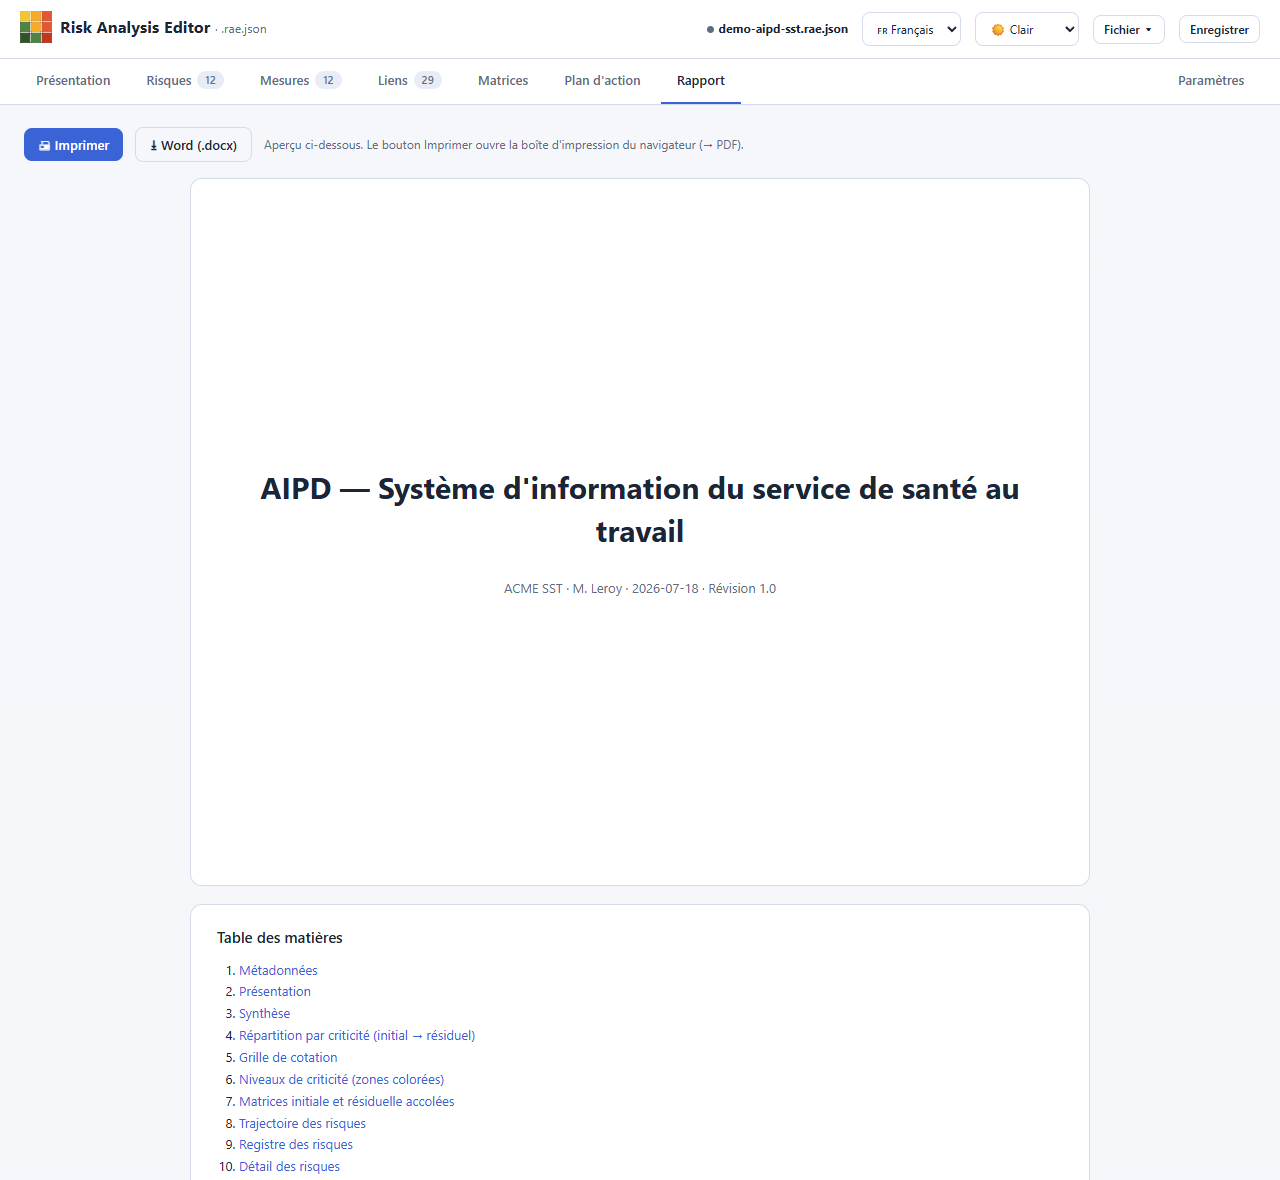
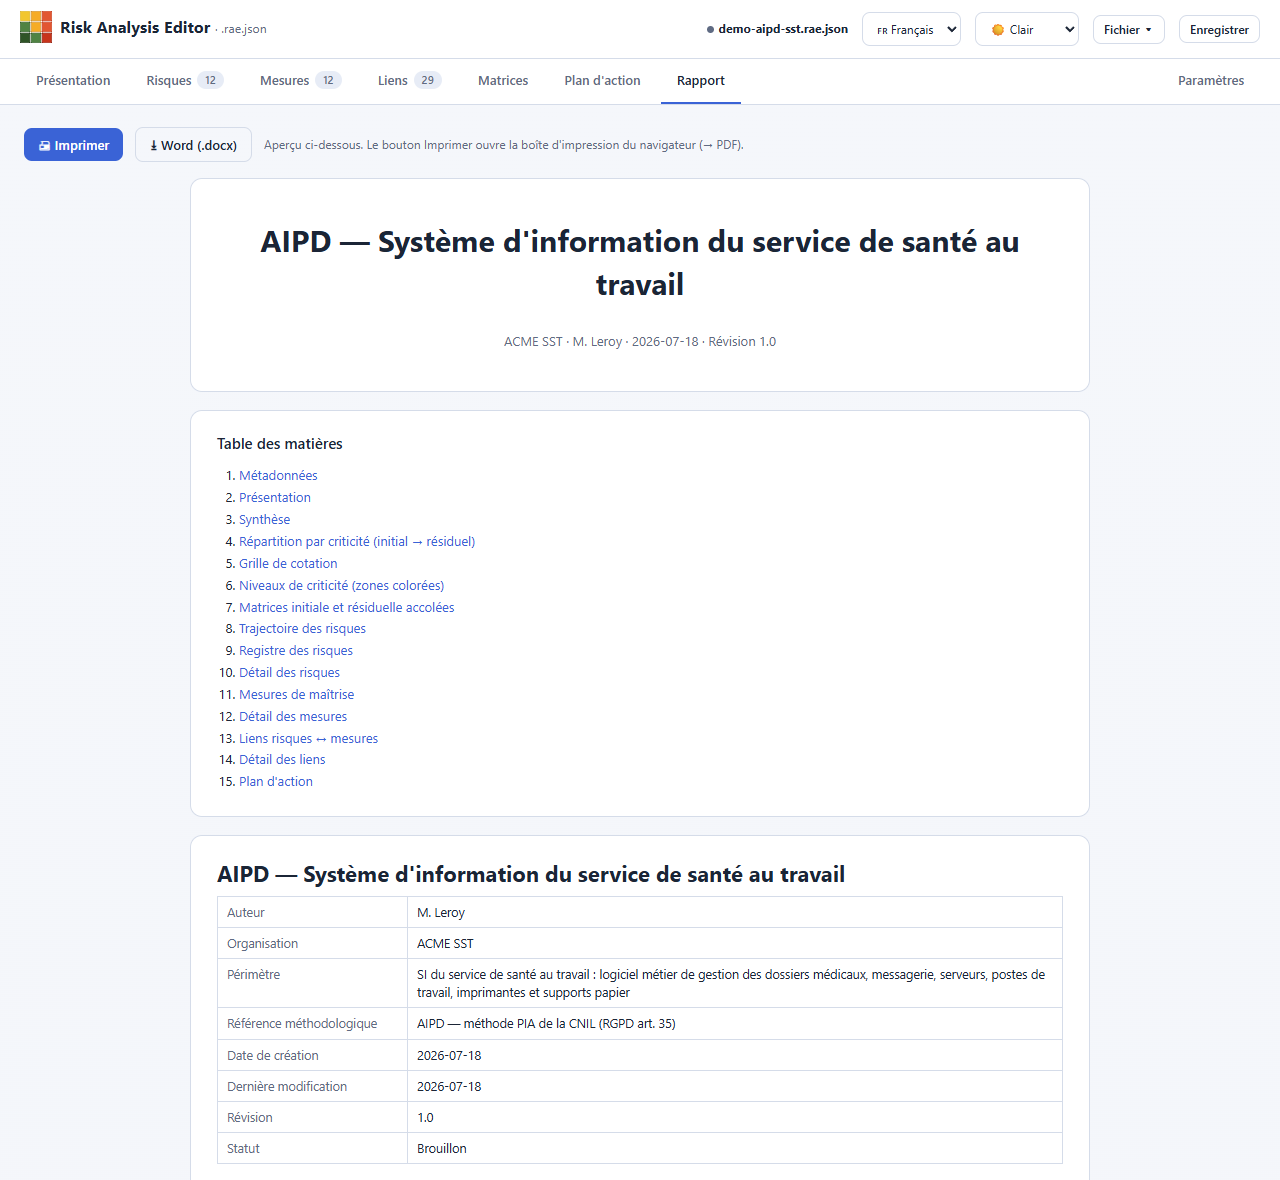
feat(rapport, matrices): édition au clic sur les pastilles + ajustements du rapport
- Matrices : cliquer une pastille ouvre la fiche du risque (toutes les vues :
  Initial, Résiduel, Trajectoire, y compris placement manuel). Le glisser-déposer
  n'est jamais confondu avec un clic (seuil de 3 px). Accessibilité : pastille
  role="button", Entrée/Espace ouvre l'édition (le déplacement reste sur Ctrl+flèches).
- Rapport : dans le bloc « Périmètre filtré », les comptes s'affichent en « n / N »
  (retenus / total) pour les risques et les mesures — à l'écran/PDF et à l'export Word.
- Rapport : retrait du min-height:60vh de la page de garde (.report .rp-cover), qui
  s'ajuste désormais à la hauteur de son contenu.
- Doc : guide (§9 « éditer au clic », §11 comptes « n / N ») et README (fr/en :
  pastilles cliquables) mis à jour ; capture guide-18-rapport.png régénérée (page de
  garde compacte).

diff --git a/app/risk-analysis-editor.html b/app/risk-analysis-editor.html
@@ -664,7 +664,7 @@
   .report .rp-item .rp-note{margin-top:4px;font-size:12px;color:var(--muted);white-space:pre-wrap}
 
   /* ---- Rapport personnalisable : page de garde, table des matières, en-tête/pied ---- */
-  .report .rp-cover{min-height:60vh;display:flex;flex-direction:column;align-items:center;justify-content:center;
+  .report .rp-cover{display:flex;flex-direction:column;align-items:center;justify-content:center;
     text-align:center;gap:12px;padding:40px 26px;background:var(--panel);border:1px solid var(--border);
     border-radius:12px;margin-bottom:18px;page-break-after:always}
   .report .rp-cover-logo{max-height:120px;max-width:60%;object-fit:contain;margin-bottom:10px}
@@ -3641,6 +3641,9 @@ function commitManualDrop(mc,r,which,px,py){
 /* Déplacement au clavier : Ctrl+flèches sur la pastille focalisée. Vaut dans toutes les
    dispositions, manuelle comprise, pour ne pas laisser une fonction réservée à la souris. */
 document.getElementById("view-matrices").addEventListener("keydown",e=>{
+  // Entrée/Espace sur une pastille focalisée : éditer le risque (équivalent clavier du clic).
+  const chipK=e.target.closest&&e.target.closest(".chip,.ov-chip");
+  if(chipK&&chipK.dataset.rid&&(e.key==="Enter"||e.key===" ")){e.preventDefault();openRiskModal(chipK.dataset.rid);return;}
   if(!e.ctrlKey||e.altKey||e.shiftKey)return;
   const d={ArrowRight:[0,1],ArrowLeft:[0,-1],ArrowUp:[1,0],ArrowDown:[-1,0]}[e.key];
   if(!d)return;
@@ -3723,6 +3726,7 @@ function attachManualDrag(chip,mc,r,which){
     const up=ev=>{
       finish();
       if(moved)commitManualDrop(mc,r,which,ev.clientX-m.left,ev.clientY-m.top);
+      else openRiskModal(r.id);   // clic sans glisser : éditer le risque
     };
     chip.addEventListener("pointermove",move);chip.addEventListener("pointerup",up);
     chip.addEventListener("pointercancel",annuler);
@@ -4160,7 +4164,7 @@ function attachCellDrag(chip,r,kind){
     const up=ev=>{
       const bouge=moved;
       finish();
-      if(!bouge)return;
+      if(!bouge){openRiskModal(r.id);return;}   // clic sans glisser : éditer le risque
       /* Case sous le curseur, cherchée par géométrie dans la matrice d'origine.
          elementFromPoint ne convient pas : en vue Trajectoire une couche de pastilles
          recouvre la grille et masquerait toujours les cases. Restreindre la recherche à
@@ -4194,6 +4198,7 @@ function attachTip(el,r,kind){
   /* Clavier et tactile : la pastille est atteignable et l'infobulle s'ouvre au focus.
      Sans cela, l'information de la matrice n'existe qu'à la souris. */
   el.tabIndex=0;
+  el.setAttribute("role","button");
   el.setAttribute("aria-label",build().text);
   el.addEventListener("focus",()=>{const b=el.getBoundingClientRect();show(b.right+8,b.bottom+8);});
   el.addEventListener("blur",()=>tip.style.opacity=0);
@@ -4536,8 +4541,8 @@ function renderReport(){
     const flts=reportActiveFilters();
     let fb='<div class="rp-card" id="rsec-filter"><h2>'+esc(t("rp_filter_summary"))+'</h2>'+
       '<table class="meta-tbl"><tbody>'+
-      '<tr><td>'+esc(t("stat_risks"))+'</td><td>'+nR+'</td></tr>'+
-      '<tr><td>'+esc(t("stat_measures"))+'</td><td>'+nM+'</td></tr>'+
+      '<tr><td>'+esc(t("stat_risks"))+'</td><td>'+nR+' / '+analyse.risks.length+'</td></tr>'+
+      '<tr><td>'+esc(t("stat_measures"))+'</td><td>'+nM+' / '+analyse.measures.length+'</td></tr>'+
       flts.map(f=>'<tr><td>'+esc(f.label)+'</td><td>'+esc(f.value)+'</td></tr>').join("")+
       '</tbody></table>';
     if(!flts.length)fb+='<div class="rp-sub">'+esc(t("rp_filter_none"))+'</div>';
@@ -6688,7 +6693,7 @@ async function buildDocx(){
   if(cfg.scope==="filtered"){
     const flts=reportActiveFilters();
     body+=heading(t("rp_filter_summary"));
-    body+=dxTbl([[{txt:t("stat_risks"),color:"7A8699"},{txt:String(nR)}],[{txt:t("stat_measures"),color:"7A8699"},{txt:String(nM)}]]
+    body+=dxTbl([[{txt:t("stat_risks"),color:"7A8699"},{txt:nR+" / "+analyse.risks.length}],[{txt:t("stat_measures"),color:"7A8699"},{txt:nM+" / "+analyse.measures.length}]]
       .concat(flts.map(f=>[{txt:f.label,color:"7A8699"},{txt:String(f.value)}])),[3200,CW-3200]);
     if(!flts.length)body+=dxP(dxRun(t("rp_filter_none"),{color:"7A8699"}),{sa:120});
   }

diff --git a/docs/guide-utilisateur.md b/docs/guide-utilisateur.md
@@ -247,6 +247,8 @@ Autres commandes :
 
 > **Recoter au glisser-déposer.** Dans **toutes les matrices** (Initial, Résiduel, Trajectoire) et **quelle que soit la disposition**, vous pouvez **faire glisser une pastille vers une autre case** : la **cotation** du risque est mise à jour en conséquence — sa **vraisemblance (P)** et sa **gravité (G)** prennent les valeurs de la case d'arrivée, et un message confirme la nouvelle cotation. Dans la vue Initial/Résiduel, déplacer la pastille de gauche modifie la cotation **initiale**, celle de droite la cotation **résiduelle** ; en Trajectoire, le déplacement ajuste la position **résiduelle**. Au clavier, `Ctrl` + les flèches déplacent la pastille sélectionnée de case en case.
 
+> **Éditer au clic.** Un **clic** sur une pastille ouvre la **fiche du risque** (au clavier : `Entrée` ou `Espace` sur la pastille sélectionnée). Le clic et le glisser-déposer ne se confondent pas : un simple clic édite, un glisser recote.
+
 > Les pastilles portent un numéro. Lorsque tous les identifiants sont au format `R…` (comme dans la démo), c'est le numéro de l'identifiant ; sinon les risques sont numérotés selon leur ordre dans le fichier. Le survol d'une pastille affiche l'identifiant complet, le libellé et la cotation.
 
 ---
@@ -289,7 +291,7 @@ Le sous-onglet **Paramètres › Rapport** permet d'adapter finement le contenu 
 - **Matrices** — trois sections indépendantes : *initiale et résiduelle accolées* (cochée par défaut), *initiale seule*, *résiduelle seule*.
 - **Plan d'action** — présentation au choix : échéancier, par statut ou par responsable.
 - **Orientation** — portrait (par défaut) ou paysage.
-- **Périmètre** — *analyse complète* ou *sous-ensemble filtré* (selon les filtres actifs). En mode filtré, une section **« Périmètre filtré »** récapitule les filtres appliqués et le nombre d'éléments retenus.
+- **Périmètre** — *analyse complète* ou *sous-ensemble filtré* (selon les filtres actifs). En mode filtré, une section **« Périmètre filtré »** récapitule les filtres appliqués et le nombre d'éléments retenus **sur le total** (`n / N`), pour les risques et les mesures.
 
 Le bouton **↺ Réinitialiser le rapport par défaut** efface la personnalisation et rétablit le modèle par défaut.
 

diff --git a/README.fr.md b/README.fr.md
@@ -48,6 +48,7 @@ RAE offre ainsi un cadre **plus structuré et cohérent qu'un ensemble de feuill
 - **Algorithmes de disposition** des trajectoires visant à réduire les croisements et les chevauchements : flèches droites, grille carrée centrée.
 - **Stratégies de disposition des pastilles** lorsqu'une case contient plusieurs risques : grille, rangée, colonne, amas/spirale, débordement « +N »…
 - **Placement manuel** des pastilles en glisser-déposer, avec grille d'accroche (*snap* N×N paramétrable) et positions enregistrées dans le fichier.
+- **Pastilles interactives** : **cliquer** une pastille ouvre la fiche du risque pour l'éditer ; la **glisser** vers une autre case **recote** le risque (au clavier : `Entrée`/`Espace` pour éditer, `Ctrl`+flèches pour recoter).
 - **Statistiques** : répartition par niveau de criticité (initial → résiduel), nombre de risques réduits.
 
 ### Grille de cotation

diff --git a/README.md b/README.md
@@ -48,6 +48,7 @@ RAE thus offers a framework that is **more structured and consistent than a set 
 - **Layout algorithms** for the trajectories aiming to reduce crossings and overlaps: straight arrows, centered square grid.
 - **Chip layout strategies** when a cell holds several risks: grid, row, column, cluster/spiral, "+N" overflow…
 - **Manual placement** of chips by drag-and-drop, with a configurable N×N snap grid and positions saved in the file.
+- **Interactive chips**: **clicking** a chip opens the risk record to edit it; **dragging** it to another cell **re-scores** the risk (keyboard: `Enter`/`Space` to edit, `Ctrl`+arrows to re-score).
 - **Statistics**: distribution by criticality level (initial → residual), number of reduced risks.
 
 ### Scoring grid
